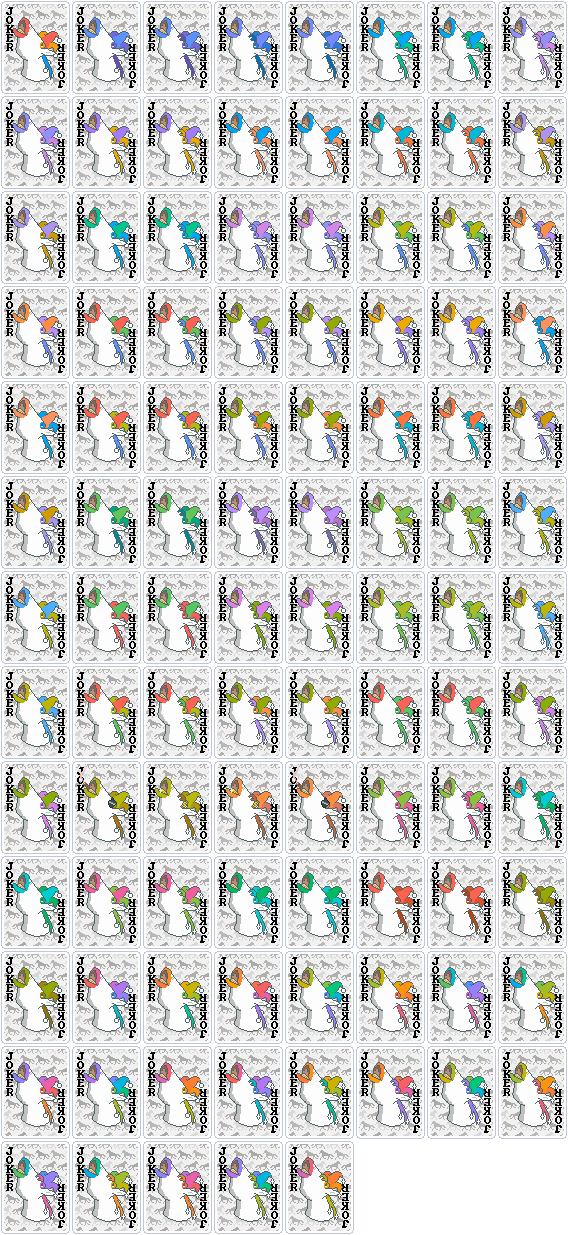
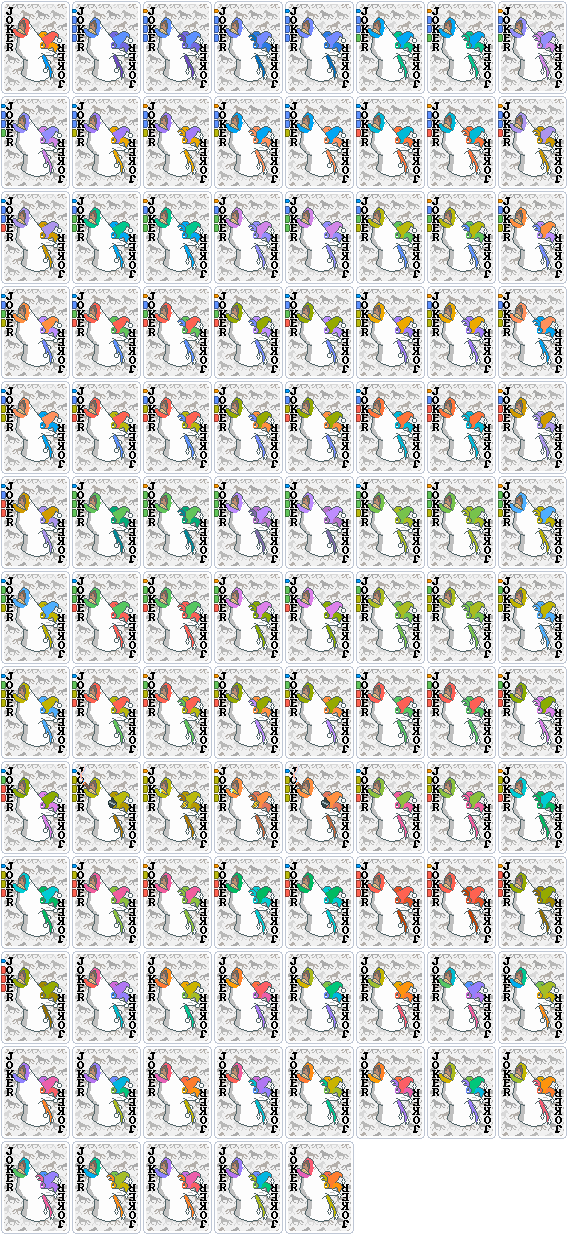
graphic: added colored tabs to horses

diff --git a/assets/uncombined/horses/main.py b/assets/uncombined/horses/main.py
@@ -44,6 +44,10 @@ bonus_colors: Dict[str, Tuple[int, int, int]] = {
     "mult": basic_colors["red"],
 }
 
+g_c = {
+    "important": (255, 154, 0),
+    "blue": (0, 157, 255)
+}
 
 def negative_color(rgb):
     # This part is abouuuut what the actual game does?
@@ -787,6 +791,47 @@ def horse_configs():
                         )
 
 
+def add_tabs(image: Image.Image, tabs: Iterable[str]) -> Image:
+    @dataclass
+    class TabFlavor:
+        image_filename: str
+        colour: Tuple[int, int, int]
+
+        def get_uncolored_tab_image(self) -> Image.Image:
+            return Image.open(self.image_filename).convert("RGBA")
+
+        def color_tab_image(self, tab_image: Image.Image) -> Image.Image:
+            bands = []
+            for band_index, band_name in enumerate("RGB"):
+                band = tab_image.getchannel(band_name)
+                band = Image.eval(band, lambda n: round((n/255) * (self.colour[band_index]/255) * 255))
+                bands.append(band)
+            bands.append(tab_image.getchannel("A"))
+            return Image.merge("RGBA", bands)
+
+        def get_tab_image(self, downward_offset: int):
+            tab_image = self.color_tab_image(self.get_uncolored_tab_image())
+            new_image = Image.new("RGBA", tab_image.size)
+            new_image.paste(tab_image, (0, downward_offset))
+            return new_image
+
+    tab_flavors: Dict[str, TabFlavor] = {
+        "hand":  TabFlavor("tab_small.png", g_c["blue"]),
+        "jack":  TabFlavor("tab_small.png", g_c["important"]),
+        "chips": TabFlavor("tab_large.png", Hue.from_rgb(basic_colors["blue"]).rgb_tuple()),
+        "mult":  TabFlavor("tab_large.png", Hue.from_rgb(basic_colors["red"]).rgb_tuple()),
+        "money": TabFlavor("tab_large.png", Hue.from_rgb(basic_colors["yellow"]).rgb_tuple()),
+        "luck":  TabFlavor("tab_large.png", Hue.from_rgb(basic_colors["green"]).rgb_tuple()),
+    }
+
+    for tab_index, tab_flavor_name in enumerate(tabs):
+        tab_flavor = tab_flavors[tab_flavor_name]
+        tab_image = tab_flavor.get_tab_image(tab_index*9)
+        image.alpha_composite(tab_image)
+
+    return image
+
+
 def color_many_horses():
     for horse_config in horse_configs():
         global debug_image
@@ -813,6 +858,9 @@ def color_many_horses():
         accessory_key = horse_config.key.replace("neg", "")
         if accessory_key in accessories_maybe:
             apply_horse_accessories(horse, accessories_maybe[accessory_key], negative=horse_config.negative)
+
+        # Tabs
+        add_tabs(horse, ["jack" if horse_config.jack else "hand"] + horse_config.bonuses)
 
         # Debuggy
         if debug_mode:
